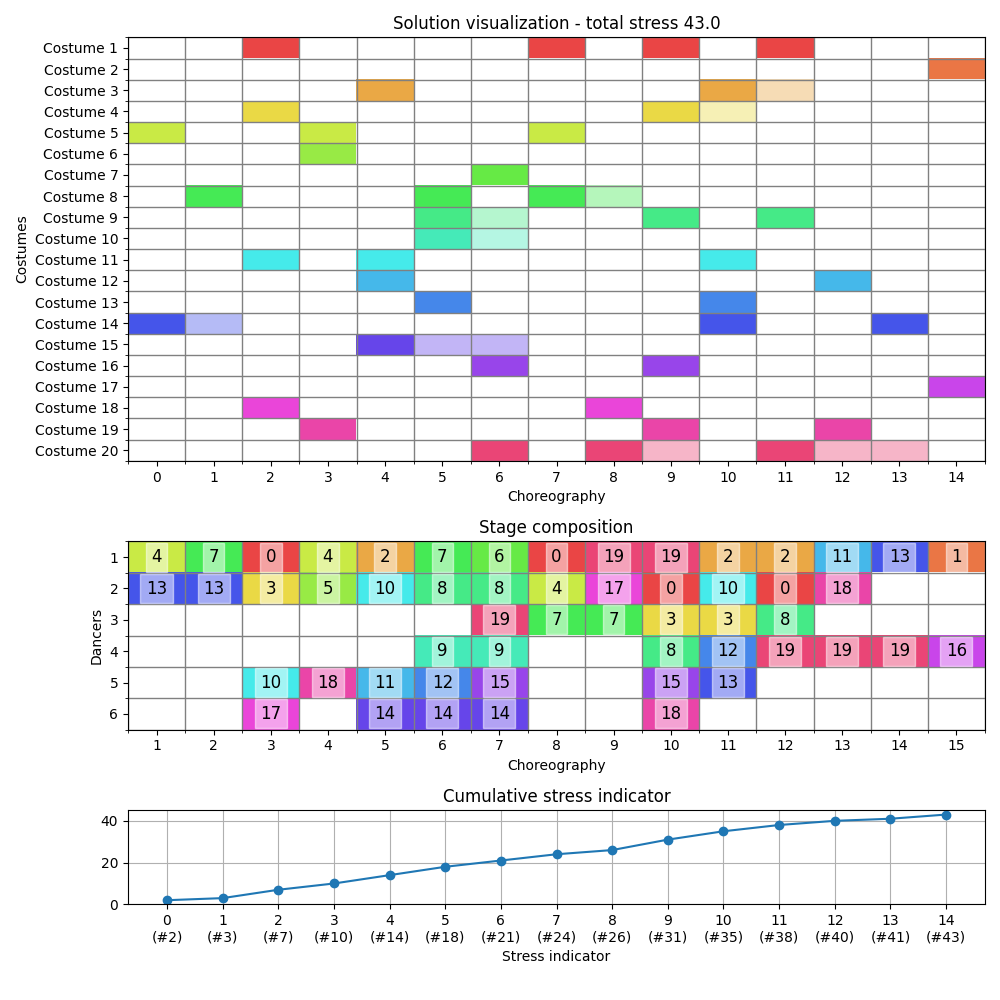
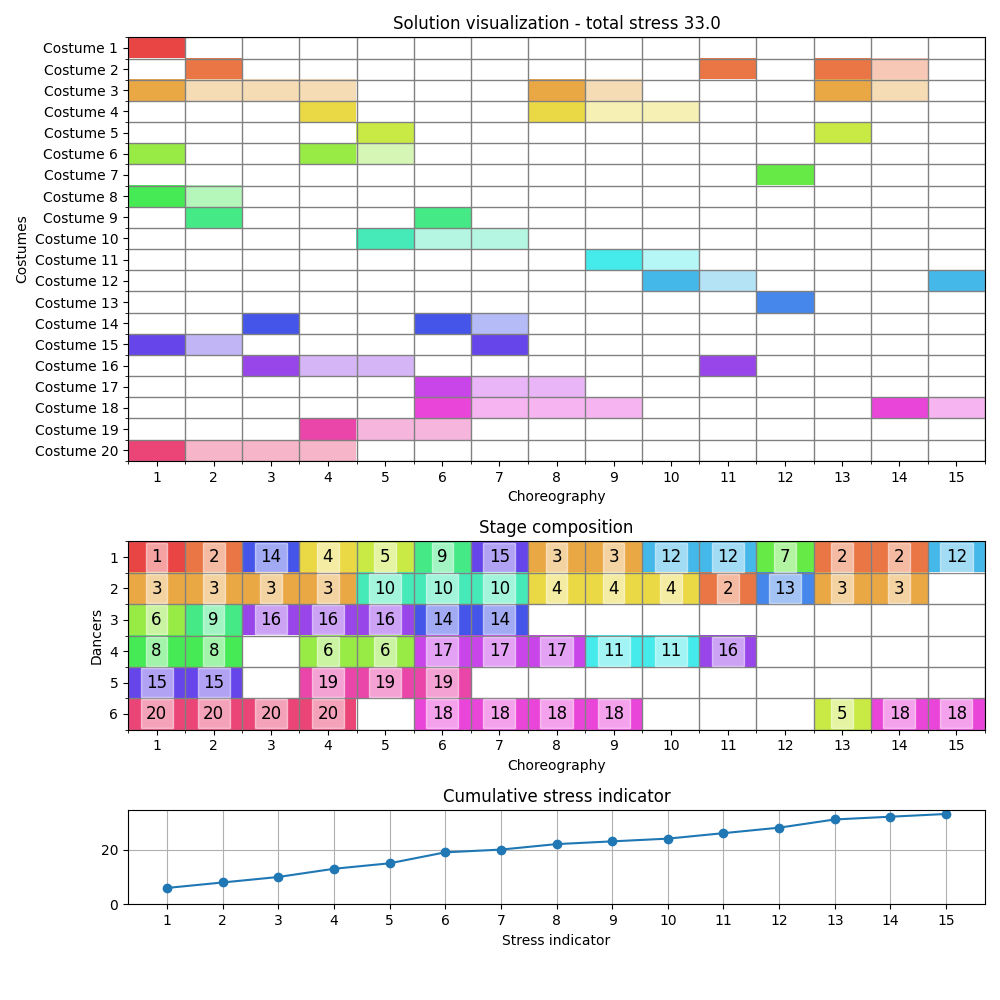
kamark
ça marche wesh

diff --git a/solver_advanced.py b/solver_advanced.py
@@ -4,6 +4,8 @@ from copy import deepcopy
 import random
 
 
+from tqdm import tqdm
+
 from itertools import permutations
 
 
@@ -23,7 +25,7 @@ class Individu():
         self.max = max(ordre)
         self.ordre = ordre
         self.matrix = dict()
-        for i,ligne in enumerate(matrix):
+        for i,ligne in enumerate(matrix.T):
             self.matrix[i] = ligne
 
 
@@ -50,7 +52,7 @@ class Individu():
         sol = [self.matrix[i] for i in self.ordre]
 
         #print(sol)
-        return np.array(sol)
+        return np.array(sol).T
     
     def scored(self, instance):
 
@@ -111,16 +113,18 @@ def solve(instance: Instance) -> Solution:
     intance_temp = deepcopy(instance)
     n_dancers, n_costumes = intance_temp.n_dancers, instance.ncostumes
     matrice_initiale = intance_temp.costumes_choreographies_matrix.copy()
-    ordre_initial = [i for i in range(len(matrice_initiale))]
-    print(type(matrice_initiale))
+    
+    ordre_initial = [i for i in range(len(matrice_initiale.T))]
+    print(type(matrice_initiale),matrice_initiale)
 
-    pop_size = 10
-    gen_max = 10
-    p = 0
-    q = 1
+    pop_size = 25
+    gen_max = 2000
+    p = 0.3
+    q = 0.3
 
     population = generate_pop(pop_size, ordre_initial,matrice_initiale,n_dancers,n_costumes)
-    
+
+ 
     # for i,x in enumerate(permutations(instance.choreographies_costumes_matrix)):
     #     if i>500:
     #         break
@@ -128,10 +132,10 @@ def solve(instance: Instance) -> Solution:
     #     if instance.objective_score(Solution(sol))<best_score:
     #         best_sol,best_score=sol,instance.objective_score(Solution(sol))
     n = len(population)
-    for _ in range(gen_max):
+    for _ in tqdm(range(gen_max)):
         Q = []
         
-        print(n)
+
         for j in range(n):
             r = np.random.uniform(0,1)
 
@@ -144,20 +148,23 @@ def solve(instance: Instance) -> Solution:
                 sprime.mutation()
 
             else:
-                sprime = deepcopy(np.random.choice(population))
+                sprime = Individu(sorted(ordre_initial, key=lambda k: random.random()), matrice_initiale, n_dancers, n_costumes)
 
             Q.append(sprime)
         
         Pprime = population+Q
-        population = sorted(Pprime,key=lambda x: x.scored(intance_temp), reverse=True)[0:n]
+        population = sorted(Pprime,key=lambda x: x.scored(intance_temp))[0:n]
 
         
 
 
 
-    pop_finale_sorted = sorted(population, key=lambda x: x.scored(intance_temp), reverse=True)
+    pop_finale_sorted = sorted(population, key=lambda x: x.scored(intance_temp))
 
-    best_sol = np.array(pop_finale_sorted[0].return_sol()).T
+    best_sol, best_score = pop_finale_sorted[0].return_sol(),pop_finale_sorted[0].scored(intance_temp) 
+
+
+    print(type(best_sol),best_sol,best_score)
 
 
     

diff --git a/utils.py b/utils.py
@@ -135,11 +135,11 @@ class Instance:
         return sum([adj_matrix[a,b] for a,b in zip(row_ind,col_ind)]) == len(self.choreography2costume_list)
 
 
-    def is_valid(self,sol:Solution)->bool:
+    def is_valid(self,student_solution:Solution)->bool:
         """
         Checks if a solution is valid
         """
-        sol = Solution(sol.raw)
+        sol=Solution(student_solution.raw)
         return sol.raw.shape==self.costumes_choreographies_matrix.shape \
                and sum(sol.raw.sum(axis=0)<=self.n_dancers)==self.nchoreographies \
                and self.are_choreographies_respected(sol)
@@ -261,7 +261,7 @@ class Instance:
         for i in range(stage_matrix_choreographies.shape[0]):    
             for j in range(stage_matrix_choreographies.shape[1]):   
                 if stage_matrix_choreographies[i,j]>=0:
-                    ax[1].text(j,i, int(stage_matrix_choreographies[i,j]), ha='center', va='center', color='black', fontsize='12',backgroundcolor=(1,1,1,.5))
+                    ax[1].text(j,i, int(stage_matrix_choreographies[i,j])+1, ha='center', va='center', color='black', fontsize='12',backgroundcolor=(1,1,1,.5))
 
         ax[1].set_xticks(np.arange(matrix.shape[1] + 1) - 0.5, minor=True)
         ax[1].set_yticks(np.arange(matrix.shape[0] + 1) - 0.5, minor=True)
@@ -271,6 +271,7 @@ class Instance:
         ax[1].set_yticks(np.arange(stage_matrix.shape[0]))
         ax[1].set_yticklabels(np.arange(stage_matrix.shape[0])+1)
         ax[1].set_xticklabels(np.arange(stage_matrix.shape[1])+1)
+        ax[0].set_xticklabels(np.arange(stage_matrix.shape[1])+1)
         ax[1].set_title('Stage composition')
         ax[1].set_ylabel('Dancers')
         ax[0].set_xlabel('Choreography')
@@ -282,6 +283,7 @@ class Instance:
         ax[0].set_title(f'Solution visualization - total stress {cumulative_count[-1]}')
         ax[3].axis('off')
         ax[2].set_ylim(0)
+        ax[2].set_xticklabels(np.arange(stage_matrix.shape[1])+1)
         plt.tight_layout()
         os.makedirs('visualization',exist_ok=True)
         plt.savefig('visualization/'+self.filepath.split(os.sep)[-1].split('.')[0]+'.png')
